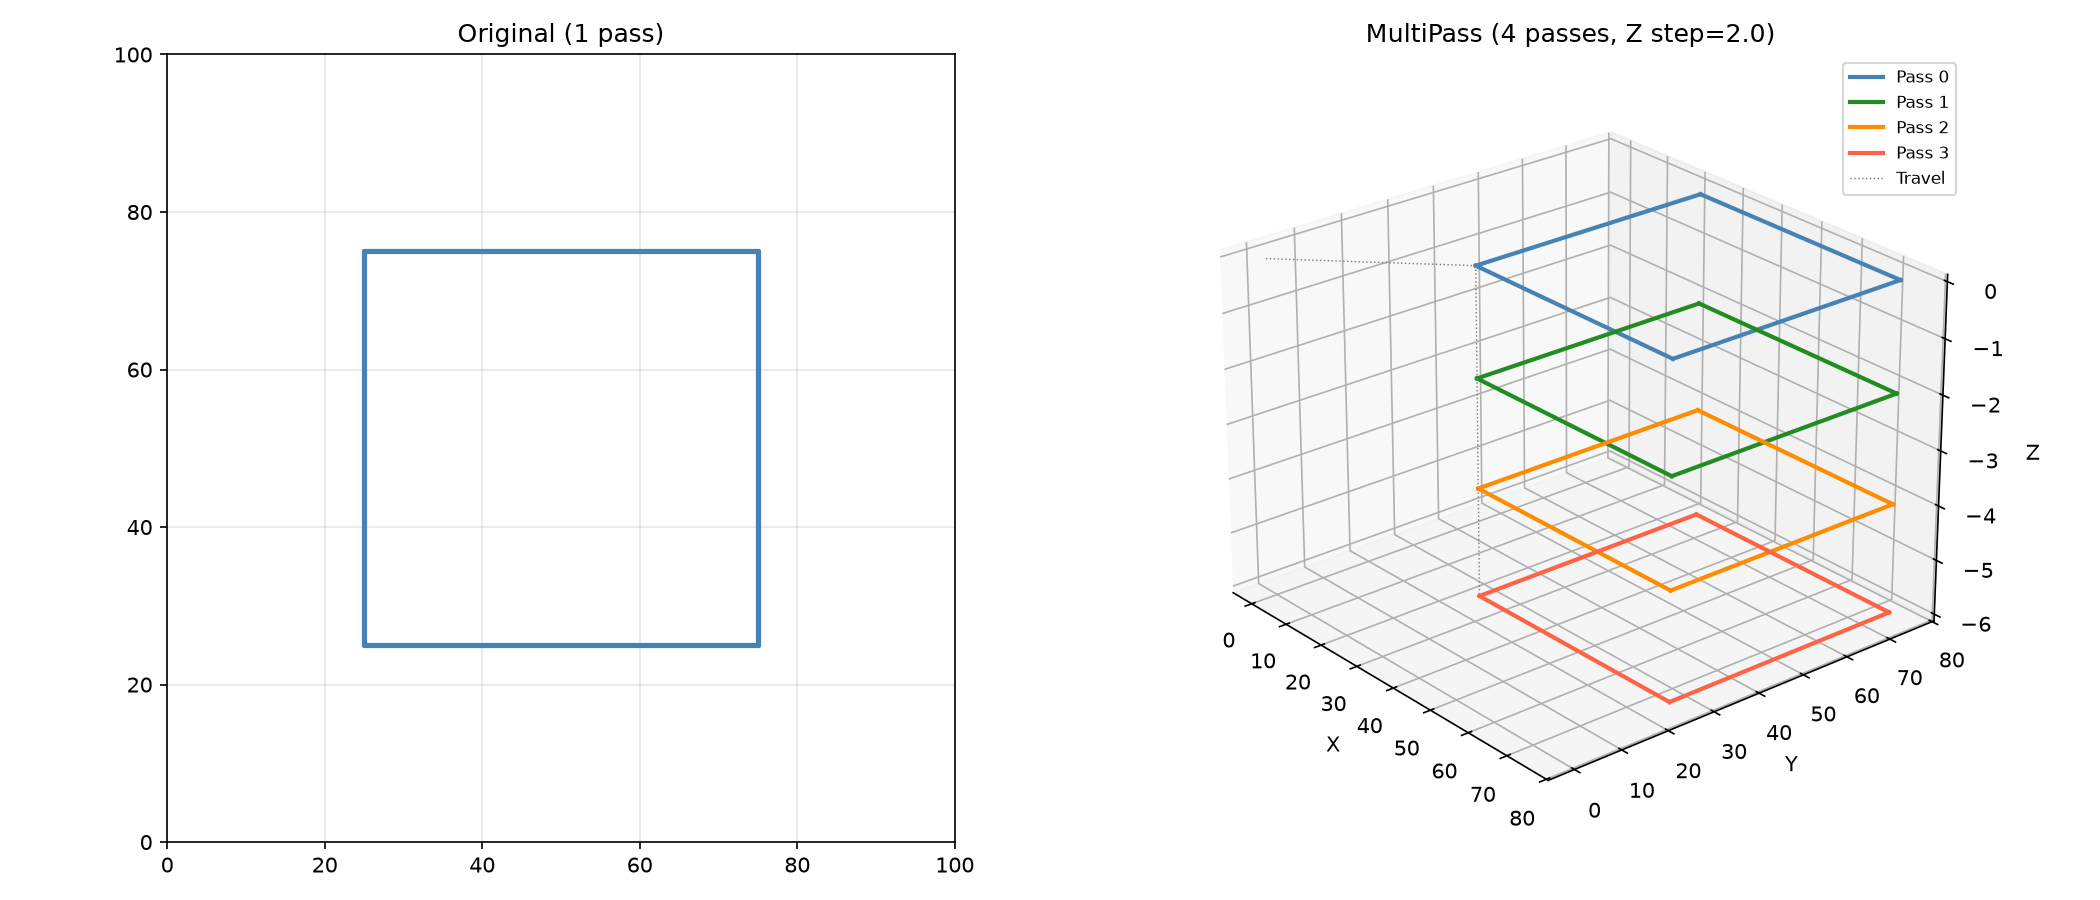
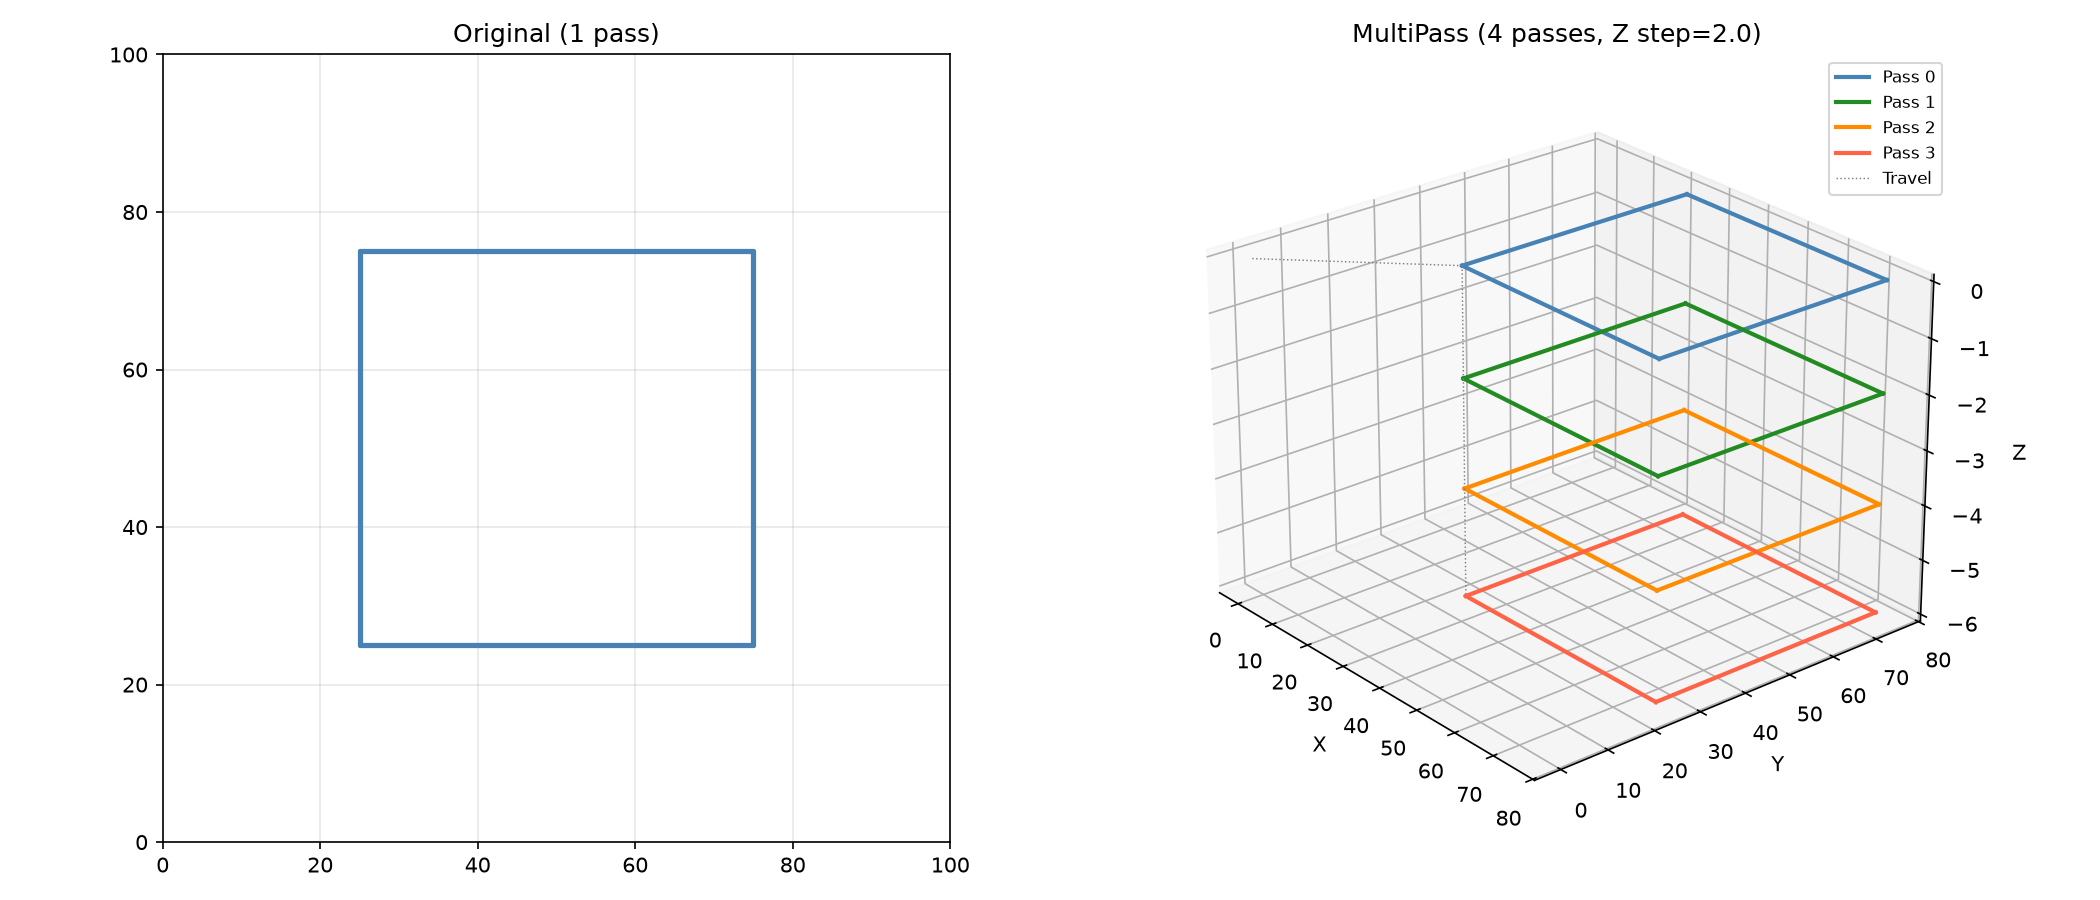
docs(ops): plot mesh correction splitting at grid lines
Add a mesh_correction example that shows a long cut with and without
subdivide. The probe grid is a single hill, so the unsubdivided cut
runs straight between its corrected ends and misses the middle, while
the subdivided cut follows the hill at every grid line. The inserted
command ends are marked in the plot.

Attach the example to the mesh_correction API docs and regenerate the
two existing images that changed with the current matplotlib.

diff --git a/tools/examples/ops_transform_mesh_correction.py b/tools/examples/ops_transform_mesh_correction.py
@@ -12,6 +12,9 @@ SIZE = 100.0
 AMPLITUDE = 1.2
 GRID_STEP = 25.0
 SEGMENT = 4.0
+HILL_AMPLITUDE = 2.0
+HILL_SIGMA = 32.0
+HILL_ZLIM = HILL_AMPLITUDE * 1.3
 
 
 def _bed(xx, yy):
@@ -22,10 +25,26 @@ def _bed(xx, yy):
     )
 
 
+def _hill(xx, yy):
+    return HILL_AMPLITUDE * np.exp(
+        -(((xx - SIZE / 2) ** 2 + (yy - SIZE / 2) ** 2) / (2 * HILL_SIGMA**2))
+    )
+
+
+def _probe_grid():
+    gx, gy = np.meshgrid(
+        np.arange(0.0, SIZE + GRID_STEP / 2, GRID_STEP),
+        np.arange(0.0, SIZE + GRID_STEP / 2, GRID_STEP),
+    )
+    return gx, gy
+
+
 def _bed_heights():
-    line = np.arange(0.0, SIZE + GRID_STEP / 2, GRID_STEP)
-    xx, yy = np.meshgrid(line, line)
-    return _bed(xx, yy)
+    return _bed(*_probe_grid())
+
+
+def _hill_heights():
+    return _hill(*_probe_grid())
 
 
 def _build_toolpath():
@@ -69,7 +88,22 @@ def _build_toolpath():
     return ops
 
 
-def _model_surface(samples=60):
+def _build_split_toolpath():
+    """Two long diagonal cuts across the probe grid.
+
+    Each runs straight between its corrected ends, so without
+    subdivision it misses the hill in the middle of the bed.
+    """
+    ops = Ops()
+    ops.set_feed_rate(3000)
+    ops.move_to(5.0, 5.0, 0.0)
+    ops.line_to(95.0, 95.0, 0.0)
+    ops.move_to(5.0, 20.0, 0.0)
+    ops.line_to(95.0, 80.0, 0.0)
+    return ops
+
+
+def _model_surface(heights, samples=60):
     """The surface the machine actually applies: the bilinear
     interpolation of the probe grid, evaluated by running
     mesh_correction on a fine inspection grid of survey lines."""
@@ -80,7 +114,7 @@ def _model_surface(samples=60):
         ops.move_to(float(xx[j, 0]), float(yy[j, 0]), 0)
         for i in range(1, samples):
             ops.line_to(float(xx[j, i]), float(yy[j, i]), 0)
-    ops.mesh_correction(0.0, 0.0, GRID_STEP, GRID_STEP, _bed_heights())
+    ops.mesh_correction(0.0, 0.0, GRID_STEP, GRID_STEP, heights)
     z = np.empty((samples, samples))
     for j in range(samples):
         for i in range(samples):
@@ -98,17 +132,52 @@ def _plot_path(ax, ops, title, model):
     ax.set_title(title, fontsize=11)
 
 
-def _plot_height_map(ax, model):
+def _plot_probe_grid(ax, heights):
+    gx, gy = _probe_grid()
+    ax.plot_wireframe(gx, gy, heights, color="gray", alpha=0.5, linewidth=0.7)
+
+
+def _move_count(ops):
+    return sum(
+        1 for i in range(ops.len()) if ops.is_cutting(i) or ops.is_travel(i)
+    )
+
+
+def _plot_cutting_moves(ax, ops):
+    prev = None
+    for i in range(ops.len()):
+        end = ops.endpoint(i)
+        if ops.is_cutting(i) and prev is not None:
+            ax.plot(
+                [prev[0], end[0]],
+                [prev[1], end[1]],
+                [prev[2], end[2]],
+                color="#111111",
+                linewidth=2.0,
+                alpha=0.9,
+            )
+        prev = end
+
+
+def _mark_command_ends(ax, ops):
+    xs, ys, zs = [], [], []
+    for i in range(ops.len()):
+        if not ops.is_cutting(i):
+            continue
+        x, y, z = ops.endpoint(i)
+        xs.append(x)
+        ys.append(y)
+        zs.append(z)
+    ax.scatter(xs, ys, zs, color="crimson", s=18, depthshade=False)
+
+
+def _plot_height_map(ax, model, heights, zlim=AMPLITUDE * 1.8):
     mx, my, mz = model
     ax.plot_surface(mx, my, mz, cmap="viridis", alpha=0.85, linewidth=0)
-    gx, gy = np.meshgrid(
-        np.arange(0.0, SIZE + GRID_STEP / 2, GRID_STEP),
-        np.arange(0.0, SIZE + GRID_STEP / 2, GRID_STEP),
-    )
-    heights = _bed_heights()
+    gx, gy = _probe_grid()
     ax.plot_wireframe(gx, gy, heights, color="gray", alpha=0.5, linewidth=0.8)
     ax.scatter(gx, gy, heights + 0.05, color="crimson", s=16)
-    ax.set_zlim(-AMPLITUDE * 1.8, AMPLITUDE * 1.8)
+    ax.set_zlim(-zlim, zlim)
     ax.set_title(
         f"Probed height map ({len(gx)}x{len(gx)} probes as dots, "
         "their control mesh as wireframe)",
@@ -116,12 +185,22 @@ def _plot_height_map(ax, model):
     )
 
 
+def _plot_split_path(ax, ops, title, model, heights, zlim):
+    _plot_path(ax, ops, title, model)
+    _plot_probe_grid(ax, heights)
+    _plot_cutting_moves(ax, ops)
+    _mark_command_ends(ax, ops)
+    ax.set_zlim(-zlim, zlim)
+    ax.view_init(elev=20, azim=-55)
+
+
 def generate_mesh_correction_example():
     """Warp a flat toolpath onto a probed bed height map."""
+    heights = _bed_heights()
     original = _build_toolpath()
     corrected = original.copy()
-    corrected.mesh_correction(0.0, 0.0, GRID_STEP, GRID_STEP, _bed_heights())
-    model = _model_surface()
+    corrected.mesh_correction(0.0, 0.0, GRID_STEP, GRID_STEP, heights)
+    model = _model_surface(heights)
 
     fig = plt.figure(figsize=(22, 6.5))
     ax1 = fig.add_subplot(131, projection="3d")
@@ -137,7 +216,50 @@ def generate_mesh_correction_example():
         "After mesh_correction: path rides the height map",
         model,
     )
-    _plot_height_map(ax3, model)
+    _plot_height_map(ax3, model, heights)
+
+    fig.tight_layout()
+    return fig
+
+
+def generate_mesh_correction_subdivide_example():
+    """Show how subdivide makes long cuts follow the height map."""
+    heights = _hill_heights()
+    model = _model_surface(heights)
+    original = _build_split_toolpath()
+
+    plain = original.copy()
+    plain.mesh_correction(0.0, 0.0, GRID_STEP, GRID_STEP, heights)
+
+    split = original.copy()
+    split.mesh_correction(
+        0.0, 0.0, GRID_STEP, GRID_STEP, heights, subdivide=True
+    )
+
+    fig = plt.figure(figsize=(22, 6.5))
+    ax1 = fig.add_subplot(131, projection="3d")
+    ax2 = fig.add_subplot(132, projection="3d")
+    ax3 = fig.add_subplot(133, projection="3d")
+
+    _plot_height_map(ax1, model, heights, zlim=HILL_ZLIM)
+    _plot_split_path(
+        ax2,
+        plain,
+        f"subdivide=False: {_move_count(plain)} moves; each cut runs "
+        "straight between its corrected ends",
+        model,
+        heights,
+        HILL_ZLIM,
+    )
+    _plot_split_path(
+        ax3,
+        split,
+        f"subdivide=True: {_move_count(split)} moves; each cut is "
+        "split where it crosses a grid line",
+        model,
+        heights,
+        HILL_ZLIM,
+    )
 
     fig.tight_layout()
     return fig
@@ -152,5 +274,13 @@ __images__ = [
             "focal point tracks the wavy surface"
         ),
         "function": generate_mesh_correction_example,
+    },
+    {
+        "heading": "mesh_correction",
+        "caption": (
+            "Splitting long cuts at grid lines makes Z follow the "
+            "hill that a straight cut misses"
+        ),
+        "function": generate_mesh_correction_subdivide_example,
     },
 ]

diff --git a/docs/api/raygeo.ops.md b/docs/api/raygeo.ops.md
@@ -1919,6 +1919,10 @@ helical arc), and bezier control points are corrected at their own XY positions.
 
 *A flat toolpath warped onto a bed height map so the focal point tracks the wavy surface*
 
+![Splitting long cuts at grid lines makes Z follow the hill that a straight cut misses](images/ops-transform-mesh-correction-mesh-correction-subdivide-example.png)
+
+*Splitting long cuts at grid lines makes Z follow the hill that a straight cut misses*
+
 ### `move_to()`
 
 ```python
